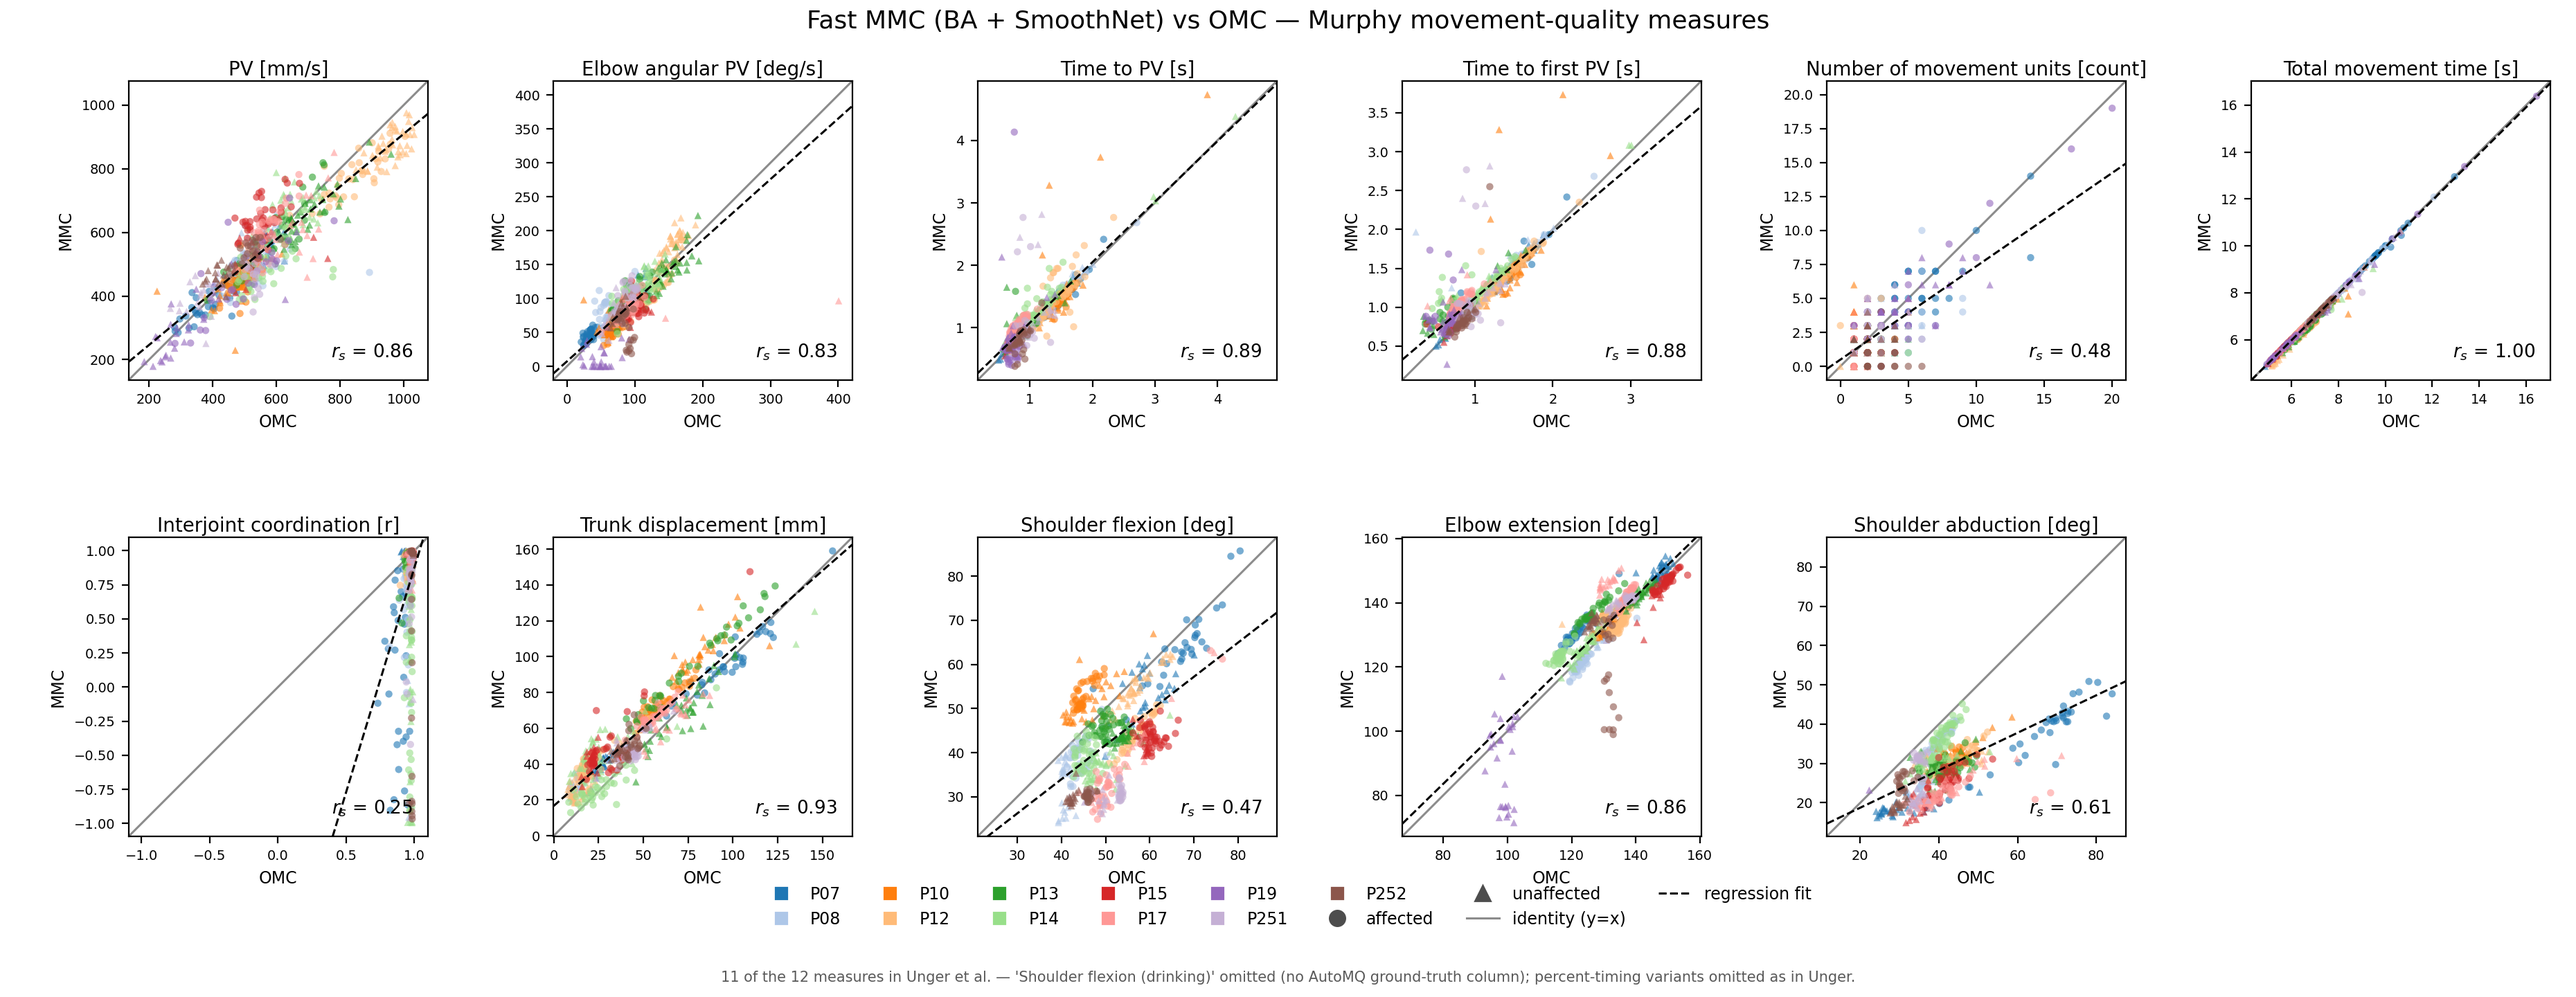
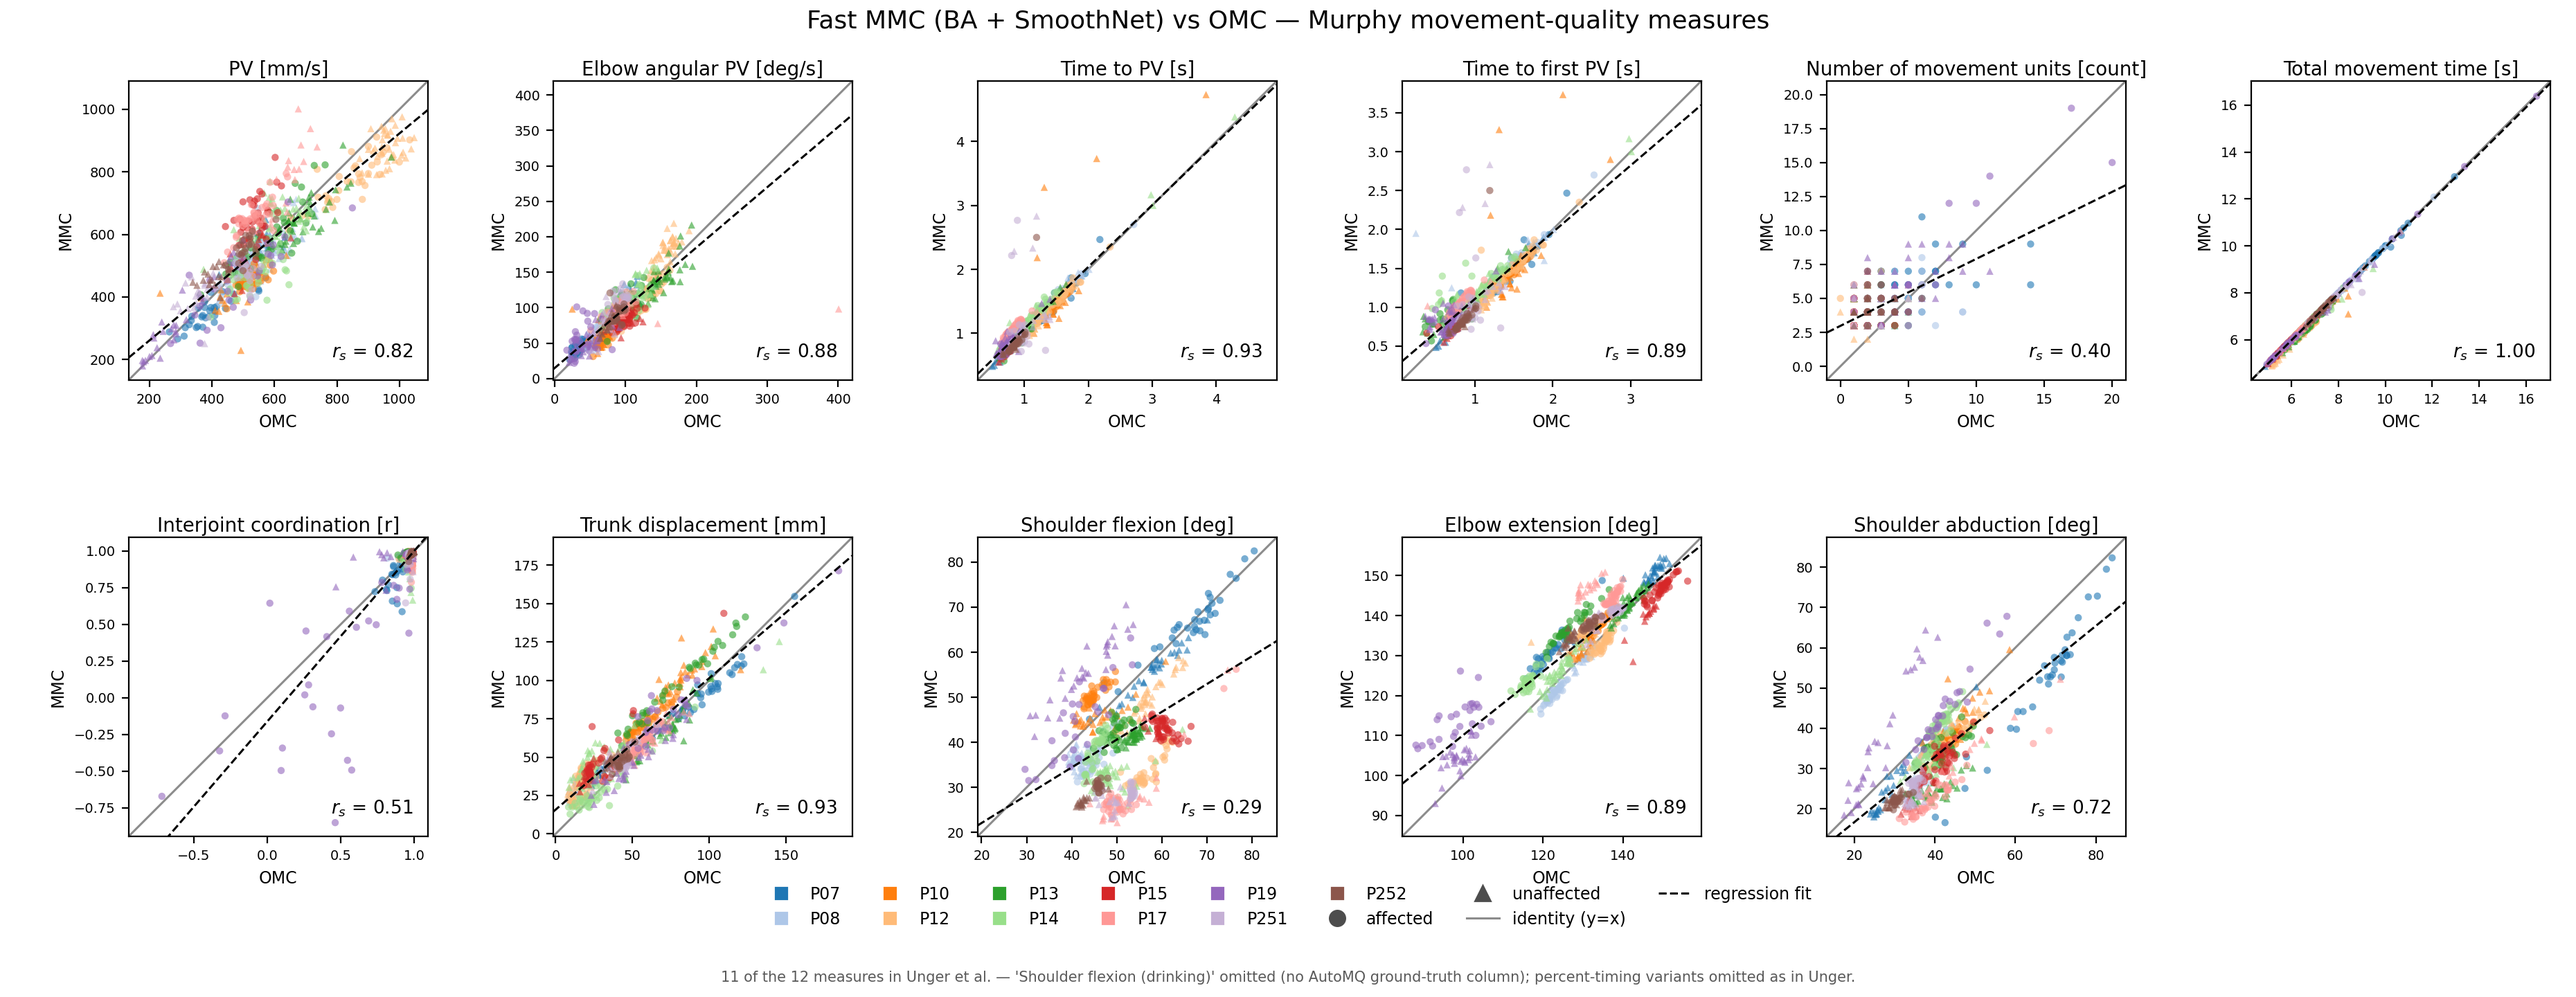
Ship relaxed gate + planar body-frame angles as the default
- cup_task/triangulate.py: robust_triangulate falls back to all-cam DLT when <MIN_CAMS
  survive the reproj gate (instead of returning None), so a miscalibrated frame is forced
  rather than the whole joint dropped. Recovers 83 P19 trials; no-op on clean data.
- score_vs_automq.py: angle_measures_automq now uses the planar 4-point body-frame
  flexion (sagittal) + abduction (frontal) by default (Alt Murphy Table 2), replacing the
  old total-angle flexion / lateral-component abduction. abduction 0.61->0.80 (gated),
  interjoint 0.25->0.51 (relaxed gate).
- paper Fig 4 + Table III regenerated from the relaxed-gate + planar measures (all 691
  trials); fig4_correlation.py / paper_table3.py take a SCORE_CSV env override.

Shipped-default Table III: interjoint 0.51, abduction 0.72, trunk 0.93, elbow-ext 0.89,
peak_velocity 0.82; flexion drops to 0.29 (all-691) because the recovered P19 miscalibrated
trials have noisy shoulder angles (flexion 0.44 on the clean 608-trial subset).

diff --git a/scripts/score_vs_automq.py b/scripts/score_vs_automq.py
@@ -218,13 +218,37 @@ def _seg_reduce(a, w, how="max"):
     return _reduce(seg, how)
 
 
+def _planar_body_angles(pose, side, other):
+    """DEFAULT (2026-08) shoulder angles = Alt Murphy Table 2 planar decomposition in a 4-point body
+    frame (both shoulders + both hips). flexion = arm in the SAGITTAL plane, abduction = arm in the
+    FRONTAL plane, both measured from the shoulder->hip down axis. The frame is FROZEN per-trial (median
+    over finite frames) for the occluded seated hips. Replaces the old total-angle flexion / lateral-
+    component abduction: abduction rs 0.61->0.80, interjoint 0.25->0.51, matches AutoMQ's planar def.
+    See paper/planar_body_angles.py + measures_methods.md."""
+    def n(x):
+        return x / (np.linalg.norm(x, axis=-1, keepdims=True) + 1e-9)
+    sh, el = pose[f"{side}_shoulder"], pose[f"{side}_elbow"]
+    arm = el - sh
+    down = n((pose["right_hip"] + pose["left_hip"]) / 2.0 - (sh + pose[f"{other}_shoulder"]) / 2.0)
+    sline = n(sh - pose[f"{other}_shoulder"])
+    fwd = n(np.cross(sline, down)); lat = n(np.cross(down, fwd))
+    f = np.isfinite(down).all(1) & np.isfinite(fwd).all(1)
+    if f.any():                                          # freeze the body frame (occluded hips)
+        dc = n(np.nanmedian(down[f], 0)); fc = n(np.nanmedian(fwd[f], 0)); lc = n(np.nanmedian(lat[f], 0))
+        down = np.broadcast_to(dc, arm.shape); fwd = np.broadcast_to(fc, arm.shape); lat = np.broadcast_to(lc, arm.shape)
+    arm_sag = arm - (arm * lat).sum(1, keepdims=True) * lat
+    arm_fro = arm - (arm * fwd).sum(1, keepdims=True) * fwd
+    flex = H._lp(np.degrees(np.arccos(np.clip((n(arm_sag) * down).sum(1), -1, 1))))
+    abd = H._lp(np.degrees(np.arccos(np.clip((n(arm_fro) * down).sum(1), -1, 1))))
+    return flex, abd
+
+
 def angle_measures_automq(pose, ph, side, peak="max"):
     """The 5 comparable angle/trunk measures with AutoMQ's EXACT windows + reductions."""
-    from compare_pose_omc_delta import _murphy_signals
     elb = _elbow_series(pose, side)
+    other = "right" if side == "left" else "left"
     try:
-        sig = _murphy_signals(pose, side=side)          # from OUR pose keypoints, not OMC
-        flex, abd = H._lp(sig["shoulder_flexion"]), H._lp(sig["shoulder_abduction"])
+        flex, abd = _planar_body_angles(pose, side, other)   # planar body-frame (default), from OUR pose
     except Exception:
         flex = abd = np.full(len(elb), np.nan)
     # TRUNK: robust-reference 3D EXCURSION of the shoulder midpoint, NOT the anatomical forward

diff --git a/cup_task/triangulate.py b/cup_task/triangulate.py
@@ -193,7 +193,14 @@ def robust_triangulate(cams: list[CamCalib], pts: list[np.ndarray]
                      for c, p in zip(cams, pts)])
     keep = [i for i in range(len(cams)) if errs[i] <= REPROJ_PX]  # 2: gate
     if len(keep) < MIN_CAMS:
-        return None, [], float("inf")
+        # RELAXED (2026-08): a MISCALIBRATED camera reprojects >REPROJ_PX even on a GOOD high-conf
+        # detection (P19 right_shoulder: 3 cams at 43/28/46px, 2D conf 0.99). Returning None dropped
+        # the whole joint -> deleted the affected-arm trials of miscalibrated participants wholesale
+        # (P19: 83 trials, incl. every low-coordination reach). Instead FALL BACK to the all-cam DLT
+        # so a miscalibrated frame is FORCED rather than lost. Validated (paper/relax_gate_*): recovers
+        # all 691 trials on all 11 measures (interjoint 0.25->0.51), neutral-to-better on clean data
+        # (the gate fires on 0.05% of P07 frames, so this is a no-op there). Still requires >=2 cams.
+        keep = list(range(len(cams)))                   # X already = all-cam DLT computed above
     if len(keep) < len(cams):                           # 3: refit on inliers
         X = triangulate_dlt([cams[i] for i in keep], [pts[i] for i in keep])
     med = float(np.median([np.linalg.norm(project(cams[i], X)[0] - pts[i])

diff --git a/paper/scripts/paper_table3.py b/paper/scripts/paper_table3.py
@@ -14,7 +14,8 @@ from scipy.stats import spearmanr
 # paper/scripts/ -> REPO is two up, PAPER (output folder) one up.
 REPO = Path(__file__).resolve().parents[2]
 PAPER = Path(__file__).resolve().parents[1]
-CSV = REPO / "out" / "automq" / "score_vs_automq.csv"
+import os
+CSV = Path(os.environ.get("SCORE_CSV", REPO / "out" / "automq" / "score_vs_automq.csv"))
 VARIANT = "BA+smoothnet"
 
 # (measure key, pretty label) in Unger Table III order; percent + flexion-D excluded (see methods.md)

diff --git a/paper/scripts/fig4_correlation.py b/paper/scripts/fig4_correlation.py
@@ -20,7 +20,8 @@ from scipy.stats import spearmanr
 # paper/scripts/ -> REPO is two up, PAPER (output folder) one up.
 REPO = Path(__file__).resolve().parents[2]
 PAPER = Path(__file__).resolve().parents[1]
-CSV = REPO / "out" / "automq" / "score_vs_automq.csv"
+import os
+CSV = Path(os.environ.get("SCORE_CSV", REPO / "out" / "automq" / "score_vs_automq.csv"))
 VARIANT = "BA+smoothnet"
 
 # (measure, pretty label, unit) -- ordered + labelled to mirror Unger et al. Fig 4 (2 rows x 6 cols)

diff --git a/paper/table3_measures.md b/paper/table3_measures.md
@@ -4,14 +4,14 @@
 
 | Movement quality measure | r_s | r_av | n |
 |---|---|---|---|
-| PV [mm/s] | 0.86 | 0.94 | 685 |
-| Elbow angular PV [deg/s] | 0.83 | 0.86 | 658 |
-| Time to PV [s] | 0.89 | 0.93 | 685 |
-| Time to first PV [s] | 0.88 | 0.94 | 685 |
-| Number of movement units [n] | 0.48 | 0.64 | 685 |
-| Total movement time [s] | 1.00 | 1.00 | 685 |
-| Interjoint coordination | 0.25 | 0.28 | 608 |
-| Trunk displacement [mm] | 0.93 | 0.95 | 629 |
-| Shoulder flexion [deg] | 0.47 | 0.49 | 608 |
-| Elbow extension [deg] | 0.86 | 0.80 | 658 |
-| Shoulder abduction [deg] | 0.61 | 0.68 | 630 |
+| PV [mm/s] | 0.82 | 0.90 | 691 |
+| Elbow angular PV [deg/s] | 0.88 | 0.89 | 691 |
+| Time to PV [s] | 0.93 | 0.94 | 691 |
+| Time to first PV [s] | 0.89 | 0.94 | 691 |
+| Number of movement units [n] | 0.40 | 0.71 | 691 |
+| Total movement time [s] | 1.00 | 1.00 | 691 |
+| Interjoint coordination | 0.51 | 0.63 | 691 |
+| Trunk displacement [mm] | 0.93 | 0.93 | 691 |
+| Shoulder flexion [deg] | 0.29 | 0.20 | 691 |
+| Elbow extension [deg] | 0.89 | 0.87 | 691 |
+| Shoulder abduction [deg] | 0.72 | 0.65 | 691 |
